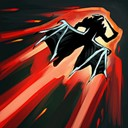
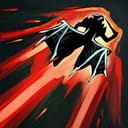
add lazy loading and compress images

diff --git a/src/components/SpellsList.vue b/src/components/SpellsList.vue
@@ -19,6 +19,7 @@ const { abilities } = defineProps(["abilities"]);
           <li v-for="(spell, index) in ability.spells" :key="spell">
             <div class="ability__spell">
               <img
+                loading="lazy"
                 v-if="spell.includes('/')"
                 class="ability__spell-img"
                 :src="spell"
@@ -40,7 +41,12 @@ const { abilities } = defineProps(["abilities"]);
       <p v-if="ability.description">{{ $t(ability.description) }}</p>
 
       <div :class="['ability__demo-box', !ability.demo && 'hide-mobile']">
-        <img v-if="ability.demo" class="ability__demo" :src="ability.demo" />
+        <img
+          loading="lazy"
+          v-if="ability.demo"
+          class="ability__demo"
+          :src="ability.demo"
+        />
       </div>
     </li>
   </ul>
